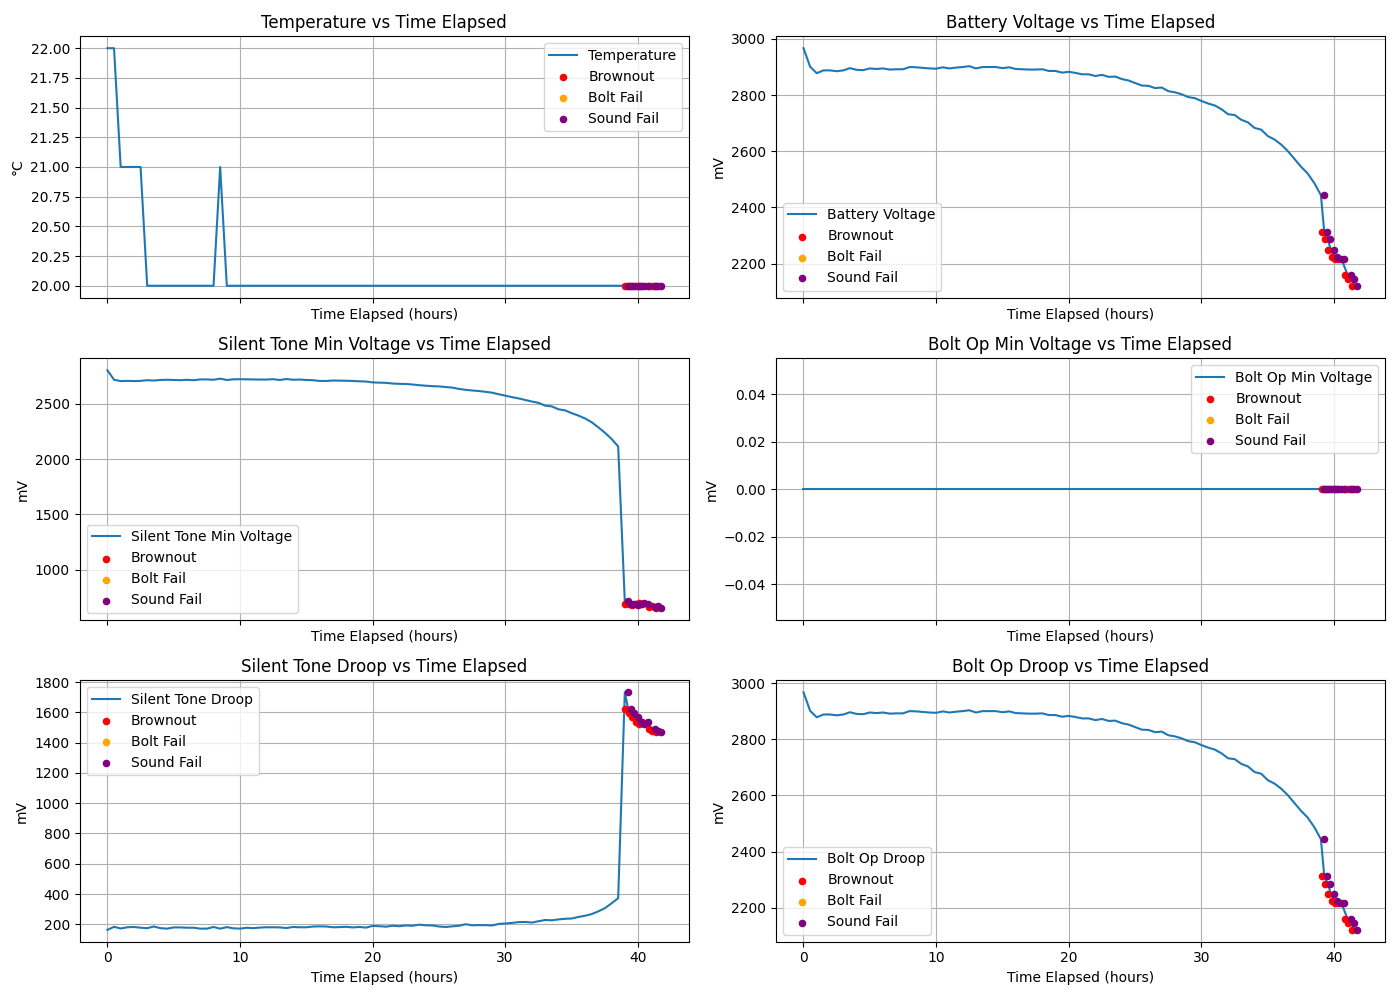
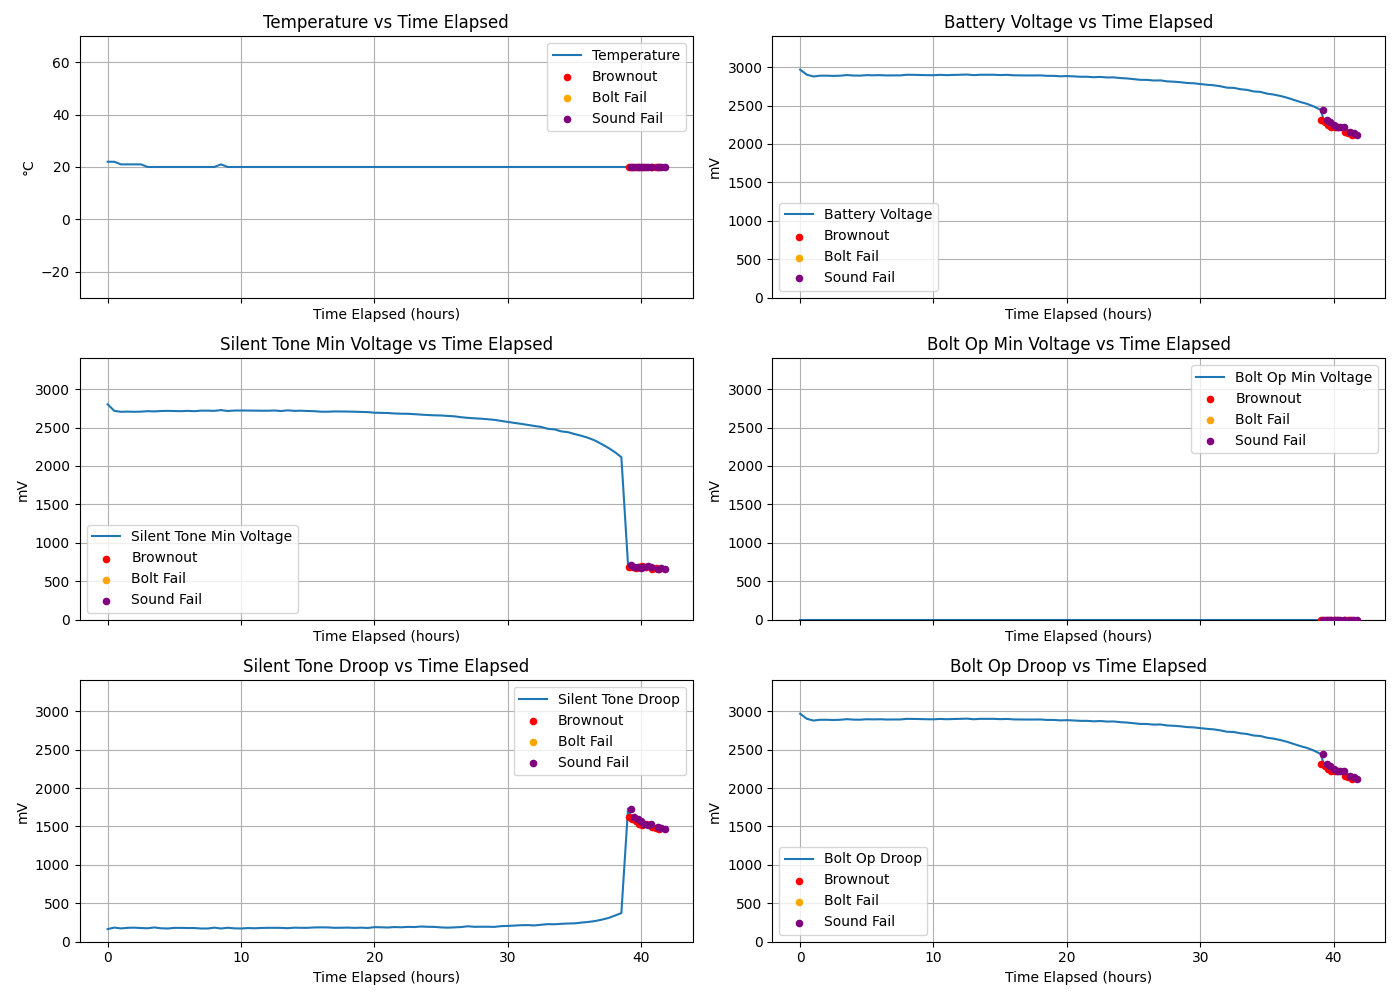
BE-6 updated

diff --git a/plot_csv.py b/plot_csv.py
@@ -1,0 +1,69 @@
+import sys
+import pandas as pd
+import matplotlib.pyplot as plt
+import os
+
+
+def main():
+    CSV_FILE = "csvs/Maven_B05_BE-6_20250806_droop255_load255_loaddur4294967295_relaxdur4294967295_boltcheckstrue.csv"
+    df = pd.read_csv(CSV_FILE)
+    filename = os.path.splitext(os.path.basename(CSV_FILE))[0]
+
+    # Prepare plotting
+    os.makedirs("plots", exist_ok=True)
+    time_col = "Time Elapsed (hours)"
+
+    plots = [
+        ("temp", "Temperature", "°C"),
+        ("batt_mV", "Battery Voltage", "mV"),
+        ("soundDroop_mV", "Silent Tone Min Voltage", "mV"),
+        ("boltDroop_mV", "Bolt Op Min Voltage", "mV"),
+        ("soundDroopMag_mV", "Silent Tone Droop", "mV"),
+        ("boltDroopMag_mV", "Bolt Op Droop", "mV"),
+    ]
+
+    fig, axes = plt.subplots(3, 2, figsize=(14, 10), sharex=True)
+    axes = axes.flatten()
+
+    total_time = df[time_col].iloc[-1] - df[time_col].iloc[0]
+    offset = total_time * 0.005  # 0.5% of the total duration
+    dot_size = 20
+
+    for i, (col, param, unit) in enumerate(plots):
+        ax = axes[i]
+        ax.plot(df[time_col], df[col], label=param)
+
+        # Add fault annotations with slight horizontal offsets
+        ax.scatter(df[time_col][df["fault_brownout"]] - offset,
+                   df[col][df["fault_brownout"]],
+                   color="red", label="Brownout", zorder=5, s=dot_size)
+
+        ax.scatter(df[time_col][df["fault_bolt"]],
+                   df[col][df["fault_bolt"]],
+                   color="orange", label="Bolt Fail", zorder=5, s=dot_size)
+
+        ax.scatter(df[time_col][df["fault_sound"]] + offset,
+                   df[col][df["fault_sound"]],
+                   color="purple", label="Sound Fail", zorder=5, s=dot_size)
+
+        ax.set_title(f"{param} vs Time Elapsed")
+        ax.set_ylabel(unit)
+        ax.grid(True)
+        ax.legend()
+
+        # Set y-axis limits
+        if col == "temp":
+            ax.set_ylim(-30, 70)
+        else:
+            ax.set_ylim(0, 3400)  # mV for voltage plots
+
+    for ax in axes:
+        ax.set_xlabel("Time Elapsed (hours)")
+
+    plt.tight_layout()
+    output_png = f"plots/{filename}_all_plots.png"
+    plt.savefig(output_png)
+    print(f"Saved all plots as: {output_png}")
+
+if __name__ == "__main__":
+    main()

diff --git a/csv_data_parser.py b/csv_data_parser.py
@@ -6,7 +6,7 @@ import math
 
 def main():
     if len(sys.argv) < 2:
-        print("Usage: python3 parse_and_plot.py <csv_file_path>")
+        print("Usage: python3 csv_data_parser.py <csv_file_path>")
         return
 
     csv_file_path = sys.argv[1]
